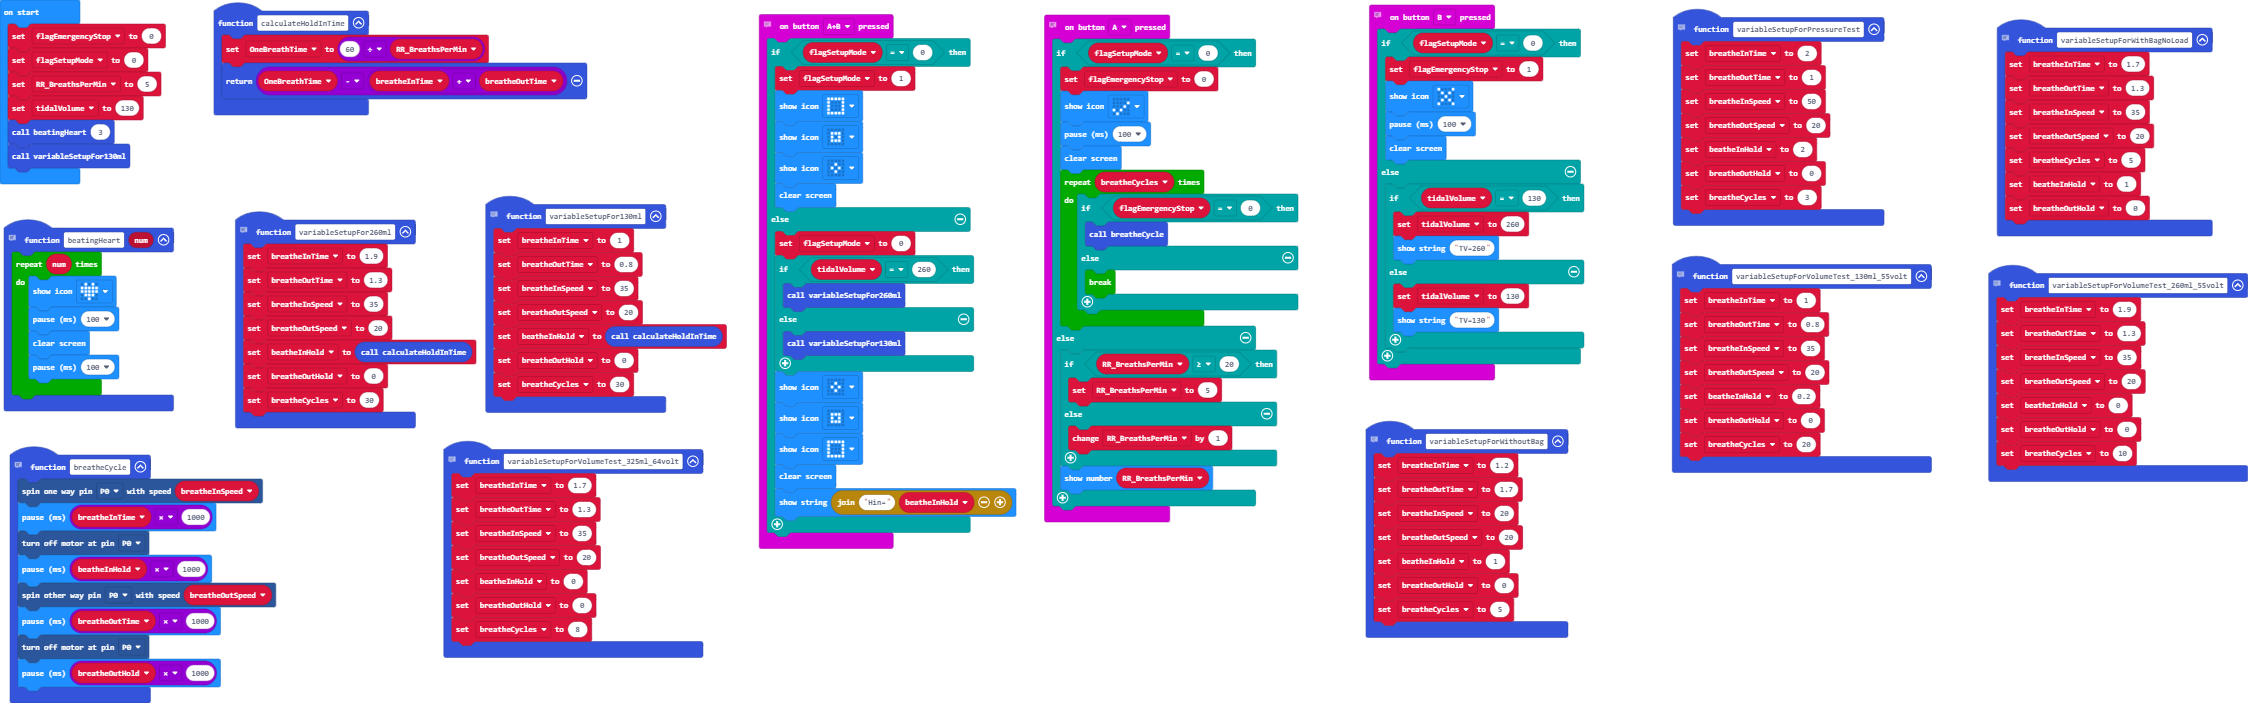
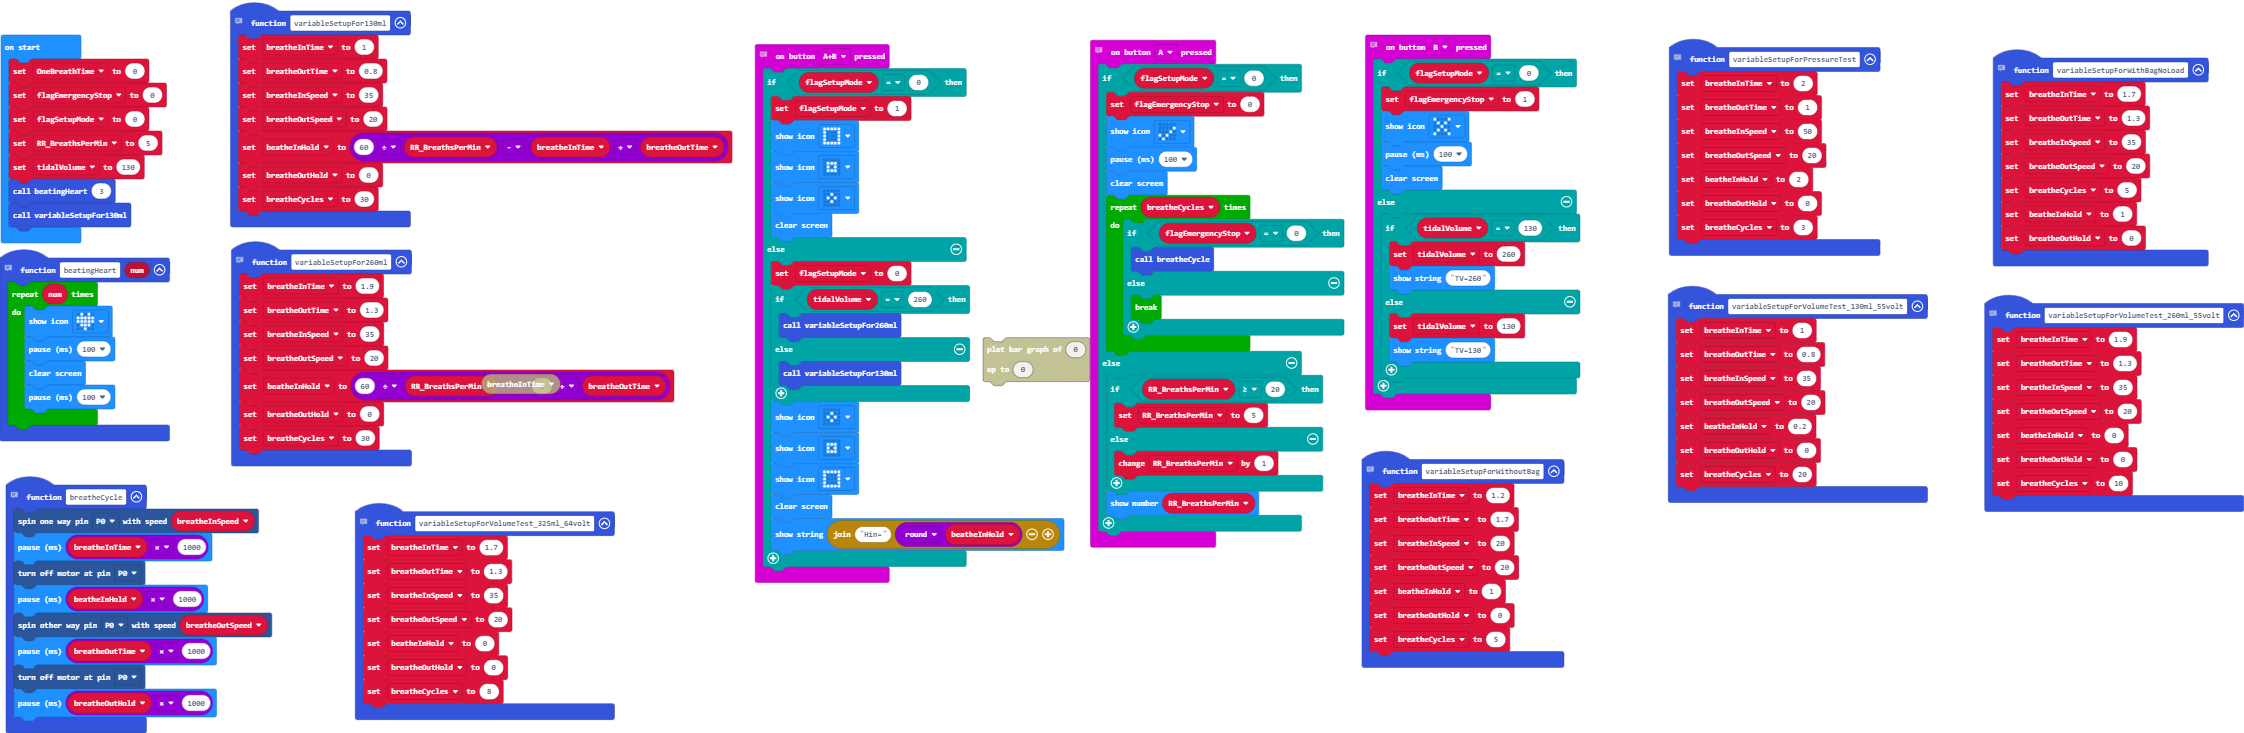
fixed rounding errors

diff --git a/main.ts b/main.ts
@@ -25,7 +25,7 @@ function variableSetupFor130ml () {
     breatheOutTime = 0.8
     breatheInSpeed = 35
     breatheOutSpeed = 20
-    beatheInHold = calculateHoldInTime()
+    beatheInHold = 60 / RR_BreathsPerMin - (breatheInTime + breatheOutTime)
     breatheOutHold = 0
     breatheCycles = 30
 }
@@ -72,10 +72,6 @@ input.onButtonPressed(Button.A, function () {
         basic.showNumber(RR_BreathsPerMin)
     }
 })
-function calculateHoldInTime () {
-    OneBreathTime = 60 / RR_BreathsPerMin
-    return OneBreathTime - (breatheInTime + breatheOutTime)
-}
 // Perform test setup for tidal volume of 130ml with 5.5volt.
 function variableSetupForVolumeTest_130ml_55volt () {
     breatheInTime = 1
@@ -125,7 +121,7 @@ input.onButtonPressed(Button.AB, function () {
         basic.showIcon(IconNames.SmallSquare)
         basic.showIcon(IconNames.Square)
         basic.clearScreen()
-        basic.showString("Hin=" + beatheInHold)
+        basic.showString("Hin=" + Math.round(beatheInHold))
     }
 })
 // display a beating heart for number of times
@@ -143,7 +139,7 @@ function variableSetupFor260ml () {
     breatheOutTime = 1.3
     breatheInSpeed = 35
     breatheOutSpeed = 20
-    beatheInHold = calculateHoldInTime()
+    beatheInHold = 60 / RR_BreathsPerMin - (0 + breatheOutTime)
     breatheOutHold = 0
     breatheCycles = 30
 }
@@ -164,7 +160,6 @@ input.onButtonPressed(Button.B, function () {
         }
     }
 })
-let OneBreathTime = 0
 let breatheCycles = 0
 let breatheOutHold = 0
 let breatheOutTime = 0
@@ -176,6 +171,7 @@ let tidalVolume = 0
 let RR_BreathsPerMin = 0
 let flagSetupMode = 0
 let flagEmergencyStop = 0
+let OneBreathTime = 0
 flagEmergencyStop = 0
 flagSetupMode = 0
 RR_BreathsPerMin = 5
